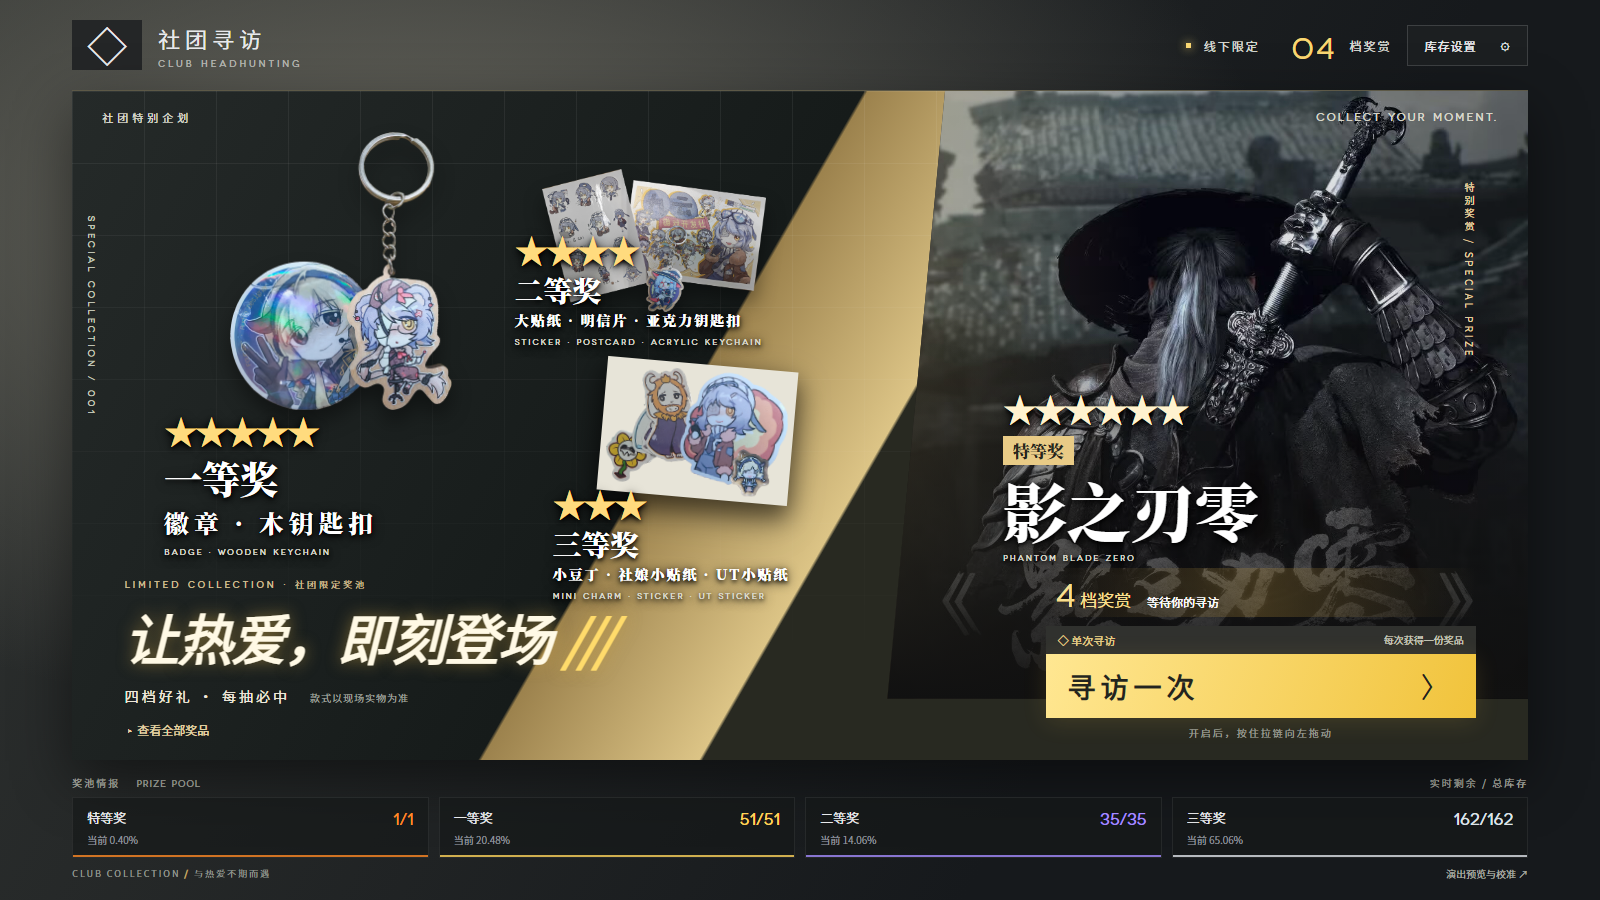
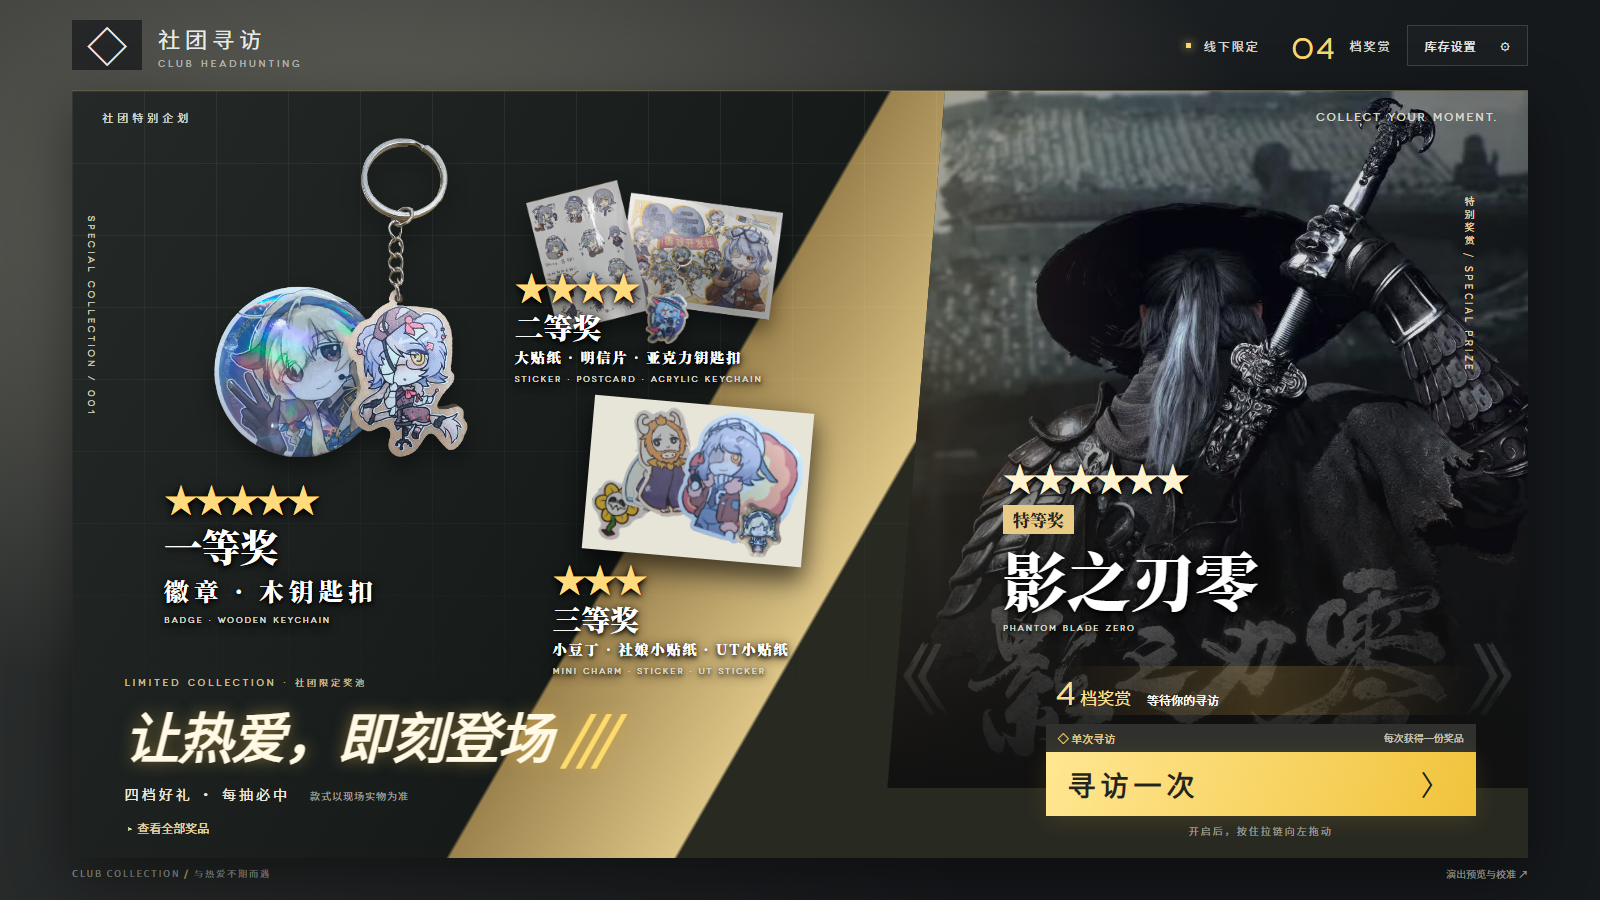
隐藏概率，暗箱操作

diff --git a/ChouKaMoNi/summon.css b/ChouKaMoNi/summon.css
@@ -23,12 +23,10 @@
 #gallery h1 { text-indent:0;font-family:AKSansN,sans-serif;font-size:clamp(26px,3.4vw,56px);font-style:italic;letter-spacing:-1px;font-weight:900;white-space:nowrap;color:#fff9e5;text-shadow:0 0 16px #ddb2488a; }.campaign h1 span { color:#ffdb6b;letter-spacing:-6px;margin-left:12px; }.campaign p { font-size:14px;letter-spacing:3px;color:#eee8da;margin:10px 0; }.campaign p span { font-size:10px;letter-spacing:1px;color:#999e96;margin-left:14px; }.campaign button { background:none;border:0;color:#e5d5a8;cursor:pointer;font-size:12px; }
 .drawPanel { width:32%;max-width:430px; }.drawPromise { padding:5px 10px;color:#f7df90;background:linear-gradient(90deg,transparent,#bc943c45,transparent);font-size:17px;white-space:nowrap; }.drawPromise strong { font:32px AKNovecento,sans-serif; }.drawPromise span { font-size:12px;color:white;margin-left:12px; }.drawTicket { margin-top:9px;padding:6px 12px;background:#30312e;font-size:11px;color:#e3cd8c;display:flex;justify-content:space-between; }.drawTicket span { color:#c6c7bd;font-size:10px; }
 #randomBtn { width:100%;border:0;background:linear-gradient(110deg,#ffe792,#f1c33b);color:#23241f;padding:12px 22px;letter-spacing:5px;text-indent:0;font-size:28px;text-align:left;box-shadow:0 4px 25px #eec14c22;font-weight:600; }#randomBtn span { float:right;font-weight:300; }#randomBtn:hover { background:#fff1b6; }#randomBtn:disabled { filter:grayscale(1);cursor:not-allowed;opacity:.5; }.drawPanel>p { text-align:center;font-size:10px;color:#96988e;margin-top:7px;letter-spacing:2px; }
-.stockHeading { display:flex;justify-content:space-between;font-size:10px;color:#b0b3a9;margin:15px 0 7px;letter-spacing:2px; }.stockHeading small { font:9px AKNovecento,sans-serif;letter-spacing:1px;margin-left:12px; }
-#inventoryStrip { width:100%;gap:10px;grid-template-columns:repeat(4,minmax(0,1fr)); }.stockChip { background:#151818a8;border:1px solid #ffffff12;padding:10px 14px; }.stockChip .stockTop { font-size:13px; }.stockChip .stockCount { font-family:AKNovecento,sans-serif;font-size:16px; }.stockChip .stockRate { font-size:10px;margin-top:5px; }.stockChip .stockFill { height:2px; }
 .summonFooter { display:flex;justify-content:space-between;align-items:center;font-size:9px;letter-spacing:2px;color:#8e938b;min-height:30px; }.summonFooter b { color:#d4be7a; }.summonFooter button { border:0;background:none;color:#a7aaa1;font-size:10px;cursor:pointer; }
 dialog { margin:auto;background:#1b1e20;color:#eee;border:1px solid #867348;padding:26px;width:min(1100px,92vw);max-height:88vh;overflow:auto;box-shadow:0 30px 100px #000a;font-family:AKSansN,sans-serif; }dialog::backdrop { background:#000b;backdrop-filter:blur(6px); }.dialogHeading { display:flex;align-items:center;justify-content:space-between; }.dialogHeading small { color:#cfbb81;font:10px AKNovecento,sans-serif;letter-spacing:3px; }.dialogHeading h2 { font-size:24px;margin-top:7px; }.dialogClose { border:0;background:none;color:white;font-size:32px;cursor:pointer; }.prizeTabs { display:flex;gap:8px;flex-wrap:wrap;margin-top:22px; }.prizeTabs button { padding:9px 15px;border:1px solid #555;background:none;color:#ddd;cursor:pointer; }.prizeTabs button[aria-pressed=true] { background:#f1d283;color:#181a19;border-color:#f1d283; }.archiveNote { font-size:12px;color:#aaa;margin:18px 0; }#prizeArchive { display:grid;grid-template-columns:repeat(auto-fit,minmax(170px,1fr));gap:15px; }#prizeArchive figure { background:#303333;text-align:center;padding:14px; }#prizeArchive img { width:100%;height:220px;object-fit:contain; }#prizeArchive figcaption { font-size:14px;padding-top:10px; }#demoDialog #cards { max-width:none; }#demoDialog .card { width:220px; }#demoDialog .gear { display:flex; }#demoDialog .footHint { margin-top:20px; }
-@media(min-width:1800px) { #gallery { padding-top:30px;padding-bottom:18px; }.summonHeader{margin-bottom:25px;}.bannerBottom{bottom:32px;}.stockChip{padding:14px 18px;} }
-@media(max-width:800px) { #gallery{padding:12px 3%;}.headerTitle{font-size:16px;letter-spacing:2px;}.headerMeta{display:none;}#inventoryBtn{margin-left:auto;}.summonHeader{gap:10px;margin-bottom:12px;}.summonBanner{flex:none;min-height:620px;}.prizeComposition{bottom:34%;}.firstPrize{left:2%;width:38%;}.secondPrize{left:32%;width:22%;}.thirdPrize{left:36%;top:57%;width:23%;height:39%;}.grandPrize{width:43%;height:100%;}.grandPrize .prizeCaption{left:15%;bottom:8%;}.grandName{font-size:28px;}.prizeCaption small{font-size:6px;letter-spacing:0;}.bannerTopline{left:18px;font-size:9px;letter-spacing:2px;}.bannerTopline span:last-child{display:none;}.bannerBottom{display:block;bottom:16px;}.campaign{width:100%;}#gallery h1{font-size:32px;}.campaign p{font-size:12px;}.campaign p span{font-size:9px;}.drawPanel{width:100%;max-width:none;margin-top:14px;}.drawPromise{display:none;}.drawTicket{margin-top:0;}#randomBtn{font-size:24px;padding:9px 18px;}.campaignKicker{font-size:8px;}.stockHeading{letter-spacing:0;}#inventoryStrip{grid-template-columns:repeat(2,minmax(0,1fr));}.summonFooter{letter-spacing:0;}.bannerSerial{display:none;}.tierName{font-size:21px;}.stars{font-size:22px;}.firstPrize .prizeCaption{bottom:4%;}.brandMark{width:42px;font-size:30px;} }
+@media(min-width:1800px) { #gallery { padding-top:30px;padding-bottom:18px; }.summonHeader{margin-bottom:25px;}.bannerBottom{bottom:32px;} }
+@media(max-width:800px) { #gallery{padding:12px 3%;}.headerTitle{font-size:16px;letter-spacing:2px;}.headerMeta{display:none;}#inventoryBtn{margin-left:auto;}.summonHeader{gap:10px;margin-bottom:12px;}.summonBanner{flex:none;min-height:620px;}.prizeComposition{bottom:34%;}.firstPrize{left:2%;width:38%;}.secondPrize{left:32%;width:22%;}.thirdPrize{left:36%;top:57%;width:23%;height:39%;}.grandPrize{width:43%;height:100%;}.grandPrize .prizeCaption{left:15%;bottom:8%;}.grandName{font-size:28px;}.prizeCaption small{font-size:6px;letter-spacing:0;}.bannerTopline{left:18px;font-size:9px;letter-spacing:2px;}.bannerTopline span:last-child{display:none;}.bannerBottom{display:block;bottom:16px;}.campaign{width:100%;}#gallery h1{font-size:32px;}.campaign p{font-size:12px;}.campaign p span{font-size:9px;}.drawPanel{width:100%;max-width:none;margin-top:14px;}.drawPromise{display:none;}.drawTicket{margin-top:0;}#randomBtn{font-size:24px;padding:9px 18px;}.campaignKicker{font-size:8px;}.summonFooter{letter-spacing:0;}.bannerSerial{display:none;}.tierName{font-size:21px;}.stars{font-size:22px;}.firstPrize .prizeCaption{bottom:4%;}.brandMark{width:42px;font-size:30px;} }
 @media(prefers-reduced-motion:reduce){.prizeArt{transition:none;}}
 @media(max-width:800px) { .prizeComposition{bottom:40%;}.firstPrize .prizeCaption{bottom:8%;}.thirdPrize{top:48%;}.campaign p span{color:#b9b8ad;}.campaignKicker{letter-spacing:1px;} }
 @media(min-width:801px) { .grandPrize .prizeCaption{bottom:22%;} }

diff --git a/ChouKaMoNi/index.html b/ChouKaMoNi/index.html
@@ -46,15 +46,6 @@
   #inventoryBtn { background: none; border: 1px solid var(--line); color: var(--txt);
     padding: 12px 20px; font-size: 13px; letter-spacing: 2px; cursor: pointer; }
   #inventoryBtn:hover { border-color: var(--accent); color: var(--accent); }
-  #inventoryStrip { display: grid; grid-template-columns: repeat(4, minmax(118px, 1fr));
-    width: min(760px, 92vw); gap: 8px; }
-  .stockChip { position: relative; overflow: hidden; background: #121419; border: 1px solid var(--line);
-    padding: 9px 12px 10px; min-width: 0; }
-  .stockChip .stockFill { position: absolute; inset: auto 0 0; height: 3px;
-    background: var(--chip, var(--accent)); opacity: .8; transform-origin: left; }
-  .stockChip .stockTop { display: flex; justify-content: space-between; gap: 8px; font-size: 12px; }
-  .stockChip .stockCount { color: var(--chip, var(--accent)); font-variant-numeric: tabular-nums; }
-  .stockChip .stockRate { color: var(--dim); font-size: 11px; margin-top: 4px; }
   .footHint { color: #565a63; font-size: 12px; letter-spacing: 1px; }
   .footHint button { background: none; border: none; color: #6d7280; cursor: pointer;
     text-decoration: underline; font-size: 12px; }
@@ -217,7 +208,6 @@
     color: var(--accent); padding: 10px 22px; letter-spacing: 3px; font-size: 14px; }
   #drawBadge.on { display: block; }
   @media (max-width: 680px) {
-    #inventoryStrip { grid-template-columns: repeat(2, 1fr); }
     .inventoryTable { min-width: 720px; }
     .modeSwitch { grid-template-columns: 1fr; }
   }
@@ -267,8 +257,6 @@
       <div class="drawPanel"><div class="drawPromise"><strong>4</strong> 档奖赏 <span>等待你的寻访</span></div><div class="drawTicket">◇ 单次寻访 <span>每次获得一份奖品</span></div><button id="randomBtn">寻访一次 <span>〉</span></button><p>开启后，按住拉链向左拖动</p></div>
     </div>
   </section>
-  <div class="stockHeading"><span>奖池情报 <small>PRIZE POOL</small></span><span>实时剩余 / 总库存</span></div>
-  <div id="inventoryStrip"></div>
   <footer class="summonFooter"><span>CLUB COLLECTION <b> / </b> 与热爱不期而遇</span><button id="demoBtn">演出预览与校准 ↗</button></footer>
 </main>
 <dialog id="prizeDialog"><div class="dialogHeading"><div><small>PRIZE ARCHIVE</small><h2 id="prizeDialogTitle">奖品一览</h2></div><button class="dialogClose" data-close="prizeDialog" aria-label="关闭奖品一览">×</button></div><div class="prizeTabs" id="prizeTabs"></div><p class="archiveNote">奖品图按档位展示，同档多件算一份，具体款式以现场实物为准。</p><div id="prizeArchive"></div></dialog>
@@ -460,19 +448,9 @@ function videoIndexForPrize(prizeId) {
 }
 
 function renderInventorySummary() {
+  // 主界面不再展示"奖池情报"（剩余数量与概率只在「库存设置」面板里对工作人员可见）。
+  // 这里只同步抽奖按钮状态：四档都抽空了就禁止再抽。
   const state = LOTTERY.snapshot();
-  const rates = Object.fromEntries(LOTTERY.probabilities().map(item => [item.id, item.probability]));
-  const strip = $("inventoryStrip");
-  strip.innerHTML = "";
-  state.prizes.forEach(prize => {
-    const chip = document.createElement("div");
-    chip.className = "stockChip";
-    chip.style.setProperty("--chip", PRIZE_COLORS[prize.id]);
-    const ratio = prize.total ? prize.remaining / prize.total : 0;
-    chip.innerHTML = `<div class="stockTop"><span>${prize.name}</span><span class="stockCount">${prize.remaining}/${prize.total}</span></div>` +
-      `<div class="stockRate">当前 ${(rates[prize.id] * 100).toFixed(2)}%</div><div class="stockFill" style="transform:scaleX(${ratio})"></div>`;
-    strip.appendChild(chip);
-  });
   $("randomBtn").disabled = !state.prizes.some(prize => prize.remaining > 0);
 }
 
@@ -894,7 +872,8 @@ function commit() {
     try {
       S.committedDraw = LOTTERY.commitDraw(S.pendingDraw);
       const badge = $("drawBadge");
-      badge.textContent = `已抽中 ${S.committedDraw.prizeName} · 剩余 ${S.committedDraw.remainingAfter}`;
+      // 只报档位，不显示剩余库存：这块角标是投屏上观众能看到的。
+      badge.textContent = `已抽中 ${S.committedDraw.prizeName}`;
       badge.classList.add("on");
       renderInventorySummary();
       window.dispatchEvent(new CustomEvent("ak-lottery-draw-committed", { detail: S.committedDraw }));

diff --git a/PROJECT_MEMORY.md b/PROJECT_MEMORY.md
@@ -61,3 +61,5 @@
 - **库存**：改为特等奖 1、一等奖 51、二等奖 35、三等奖 162（合计 249），固定概率分母同步改成 249。
 - **存档兼容**：`lottery-system.js` 的 `VERSION` 升到 2。浏览器里旧版本（v1）的存档会在下次打开时按新总库存重建奖池，旧的抽奖记录作为历史日志保留，不会静默丢弃也不会沿用过期库存。`tools/test-lottery.mjs` 的期望值已同步更新。
 - 主界面布局随新图比例做过微调（`.firstPrize` / `.secondPrize` / `.thirdPrize` 的位置尺寸、`.tierName span` 允许换行、去掉二等奖的 `image-rendering:pixelated`），并用无头 Chrome 截图逐档确认过版式。
+- **主界面不再公开奖池信息**：底部的「奖池情报 / PRIZE POOL」条（四档剩余数量 + 当前实际概率）连同 `.stockHeading` / `#inventoryStrip` / `.stockChip` 相关样式一起删除，避免现场观众看到各档剩余和概率。`renderInventorySummary()` 保留下来，但只负责同步「寻访一次」按钮的可用状态（四档抽空后置灰）。剩余数量、权重、固定概率和实际概率仍然只在「库存设置」面板里对工作人员可见。
+- 舞台上的 `#drawBadge`（拉满扣库存后短暂弹出的角标）同步去掉剩余数量，只显示「已抽中 一等奖」；`remainingAfter` 仍然写在抽奖记录里，只是不上屏。
